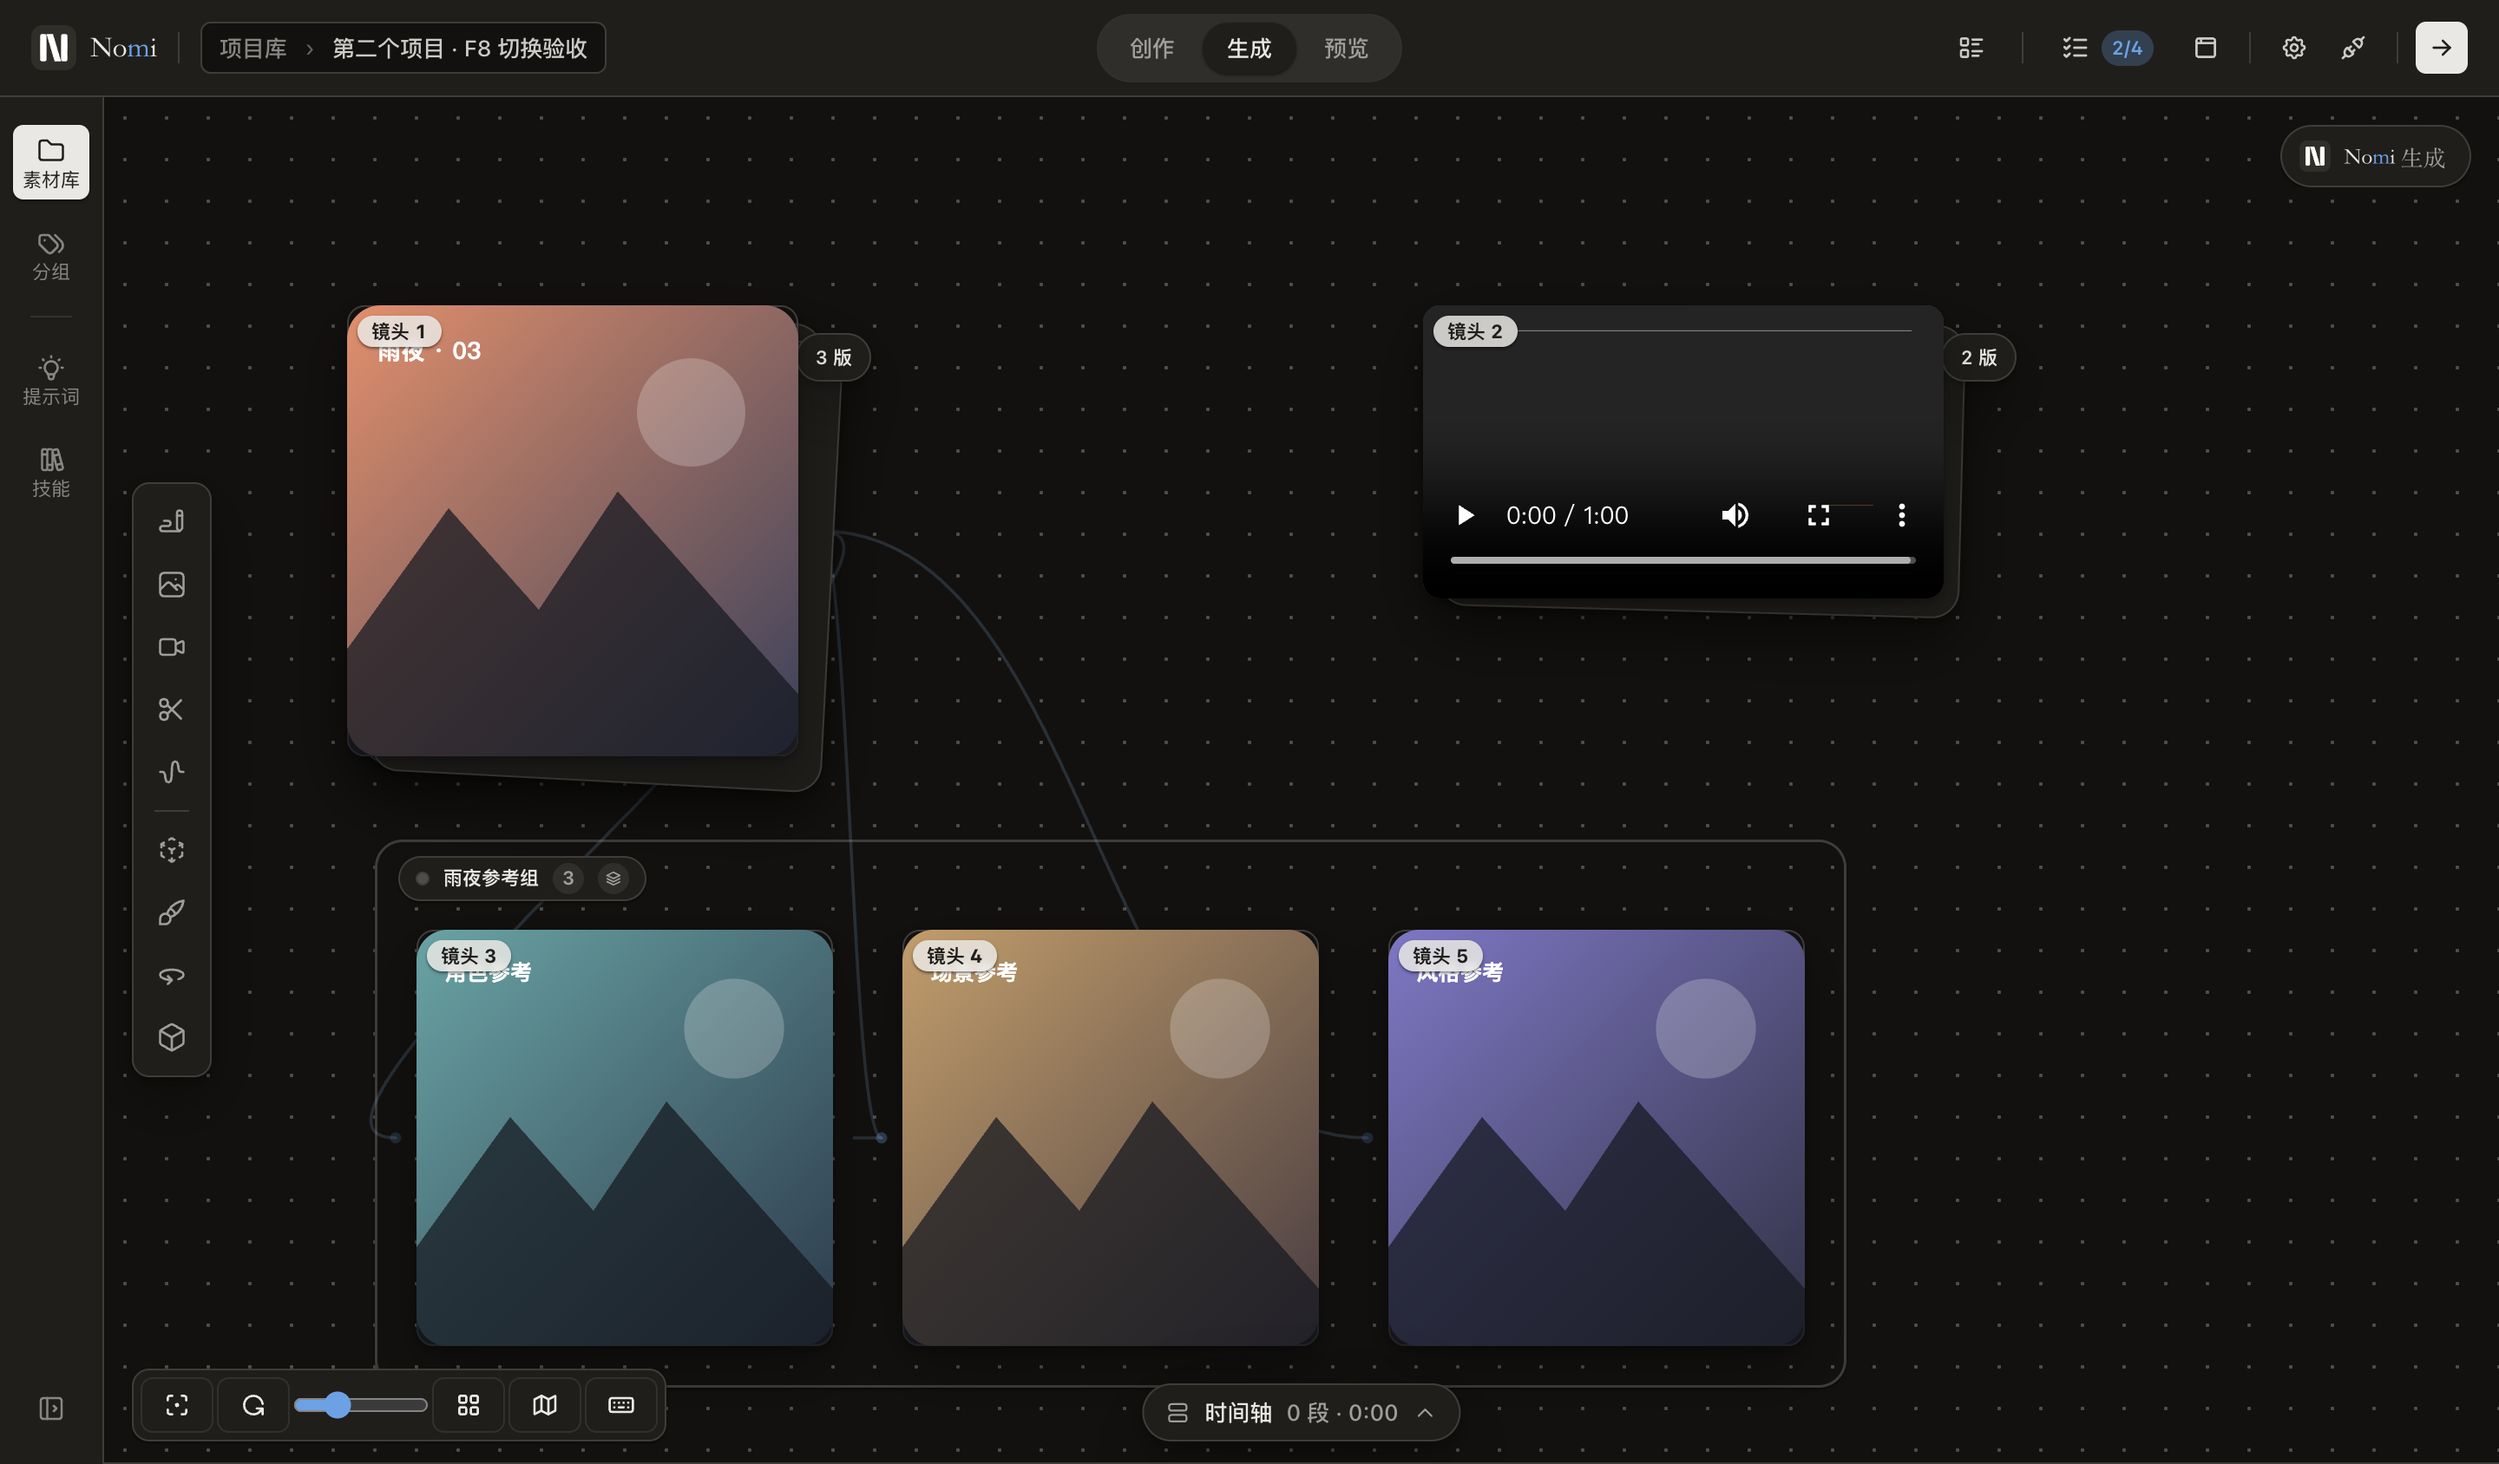
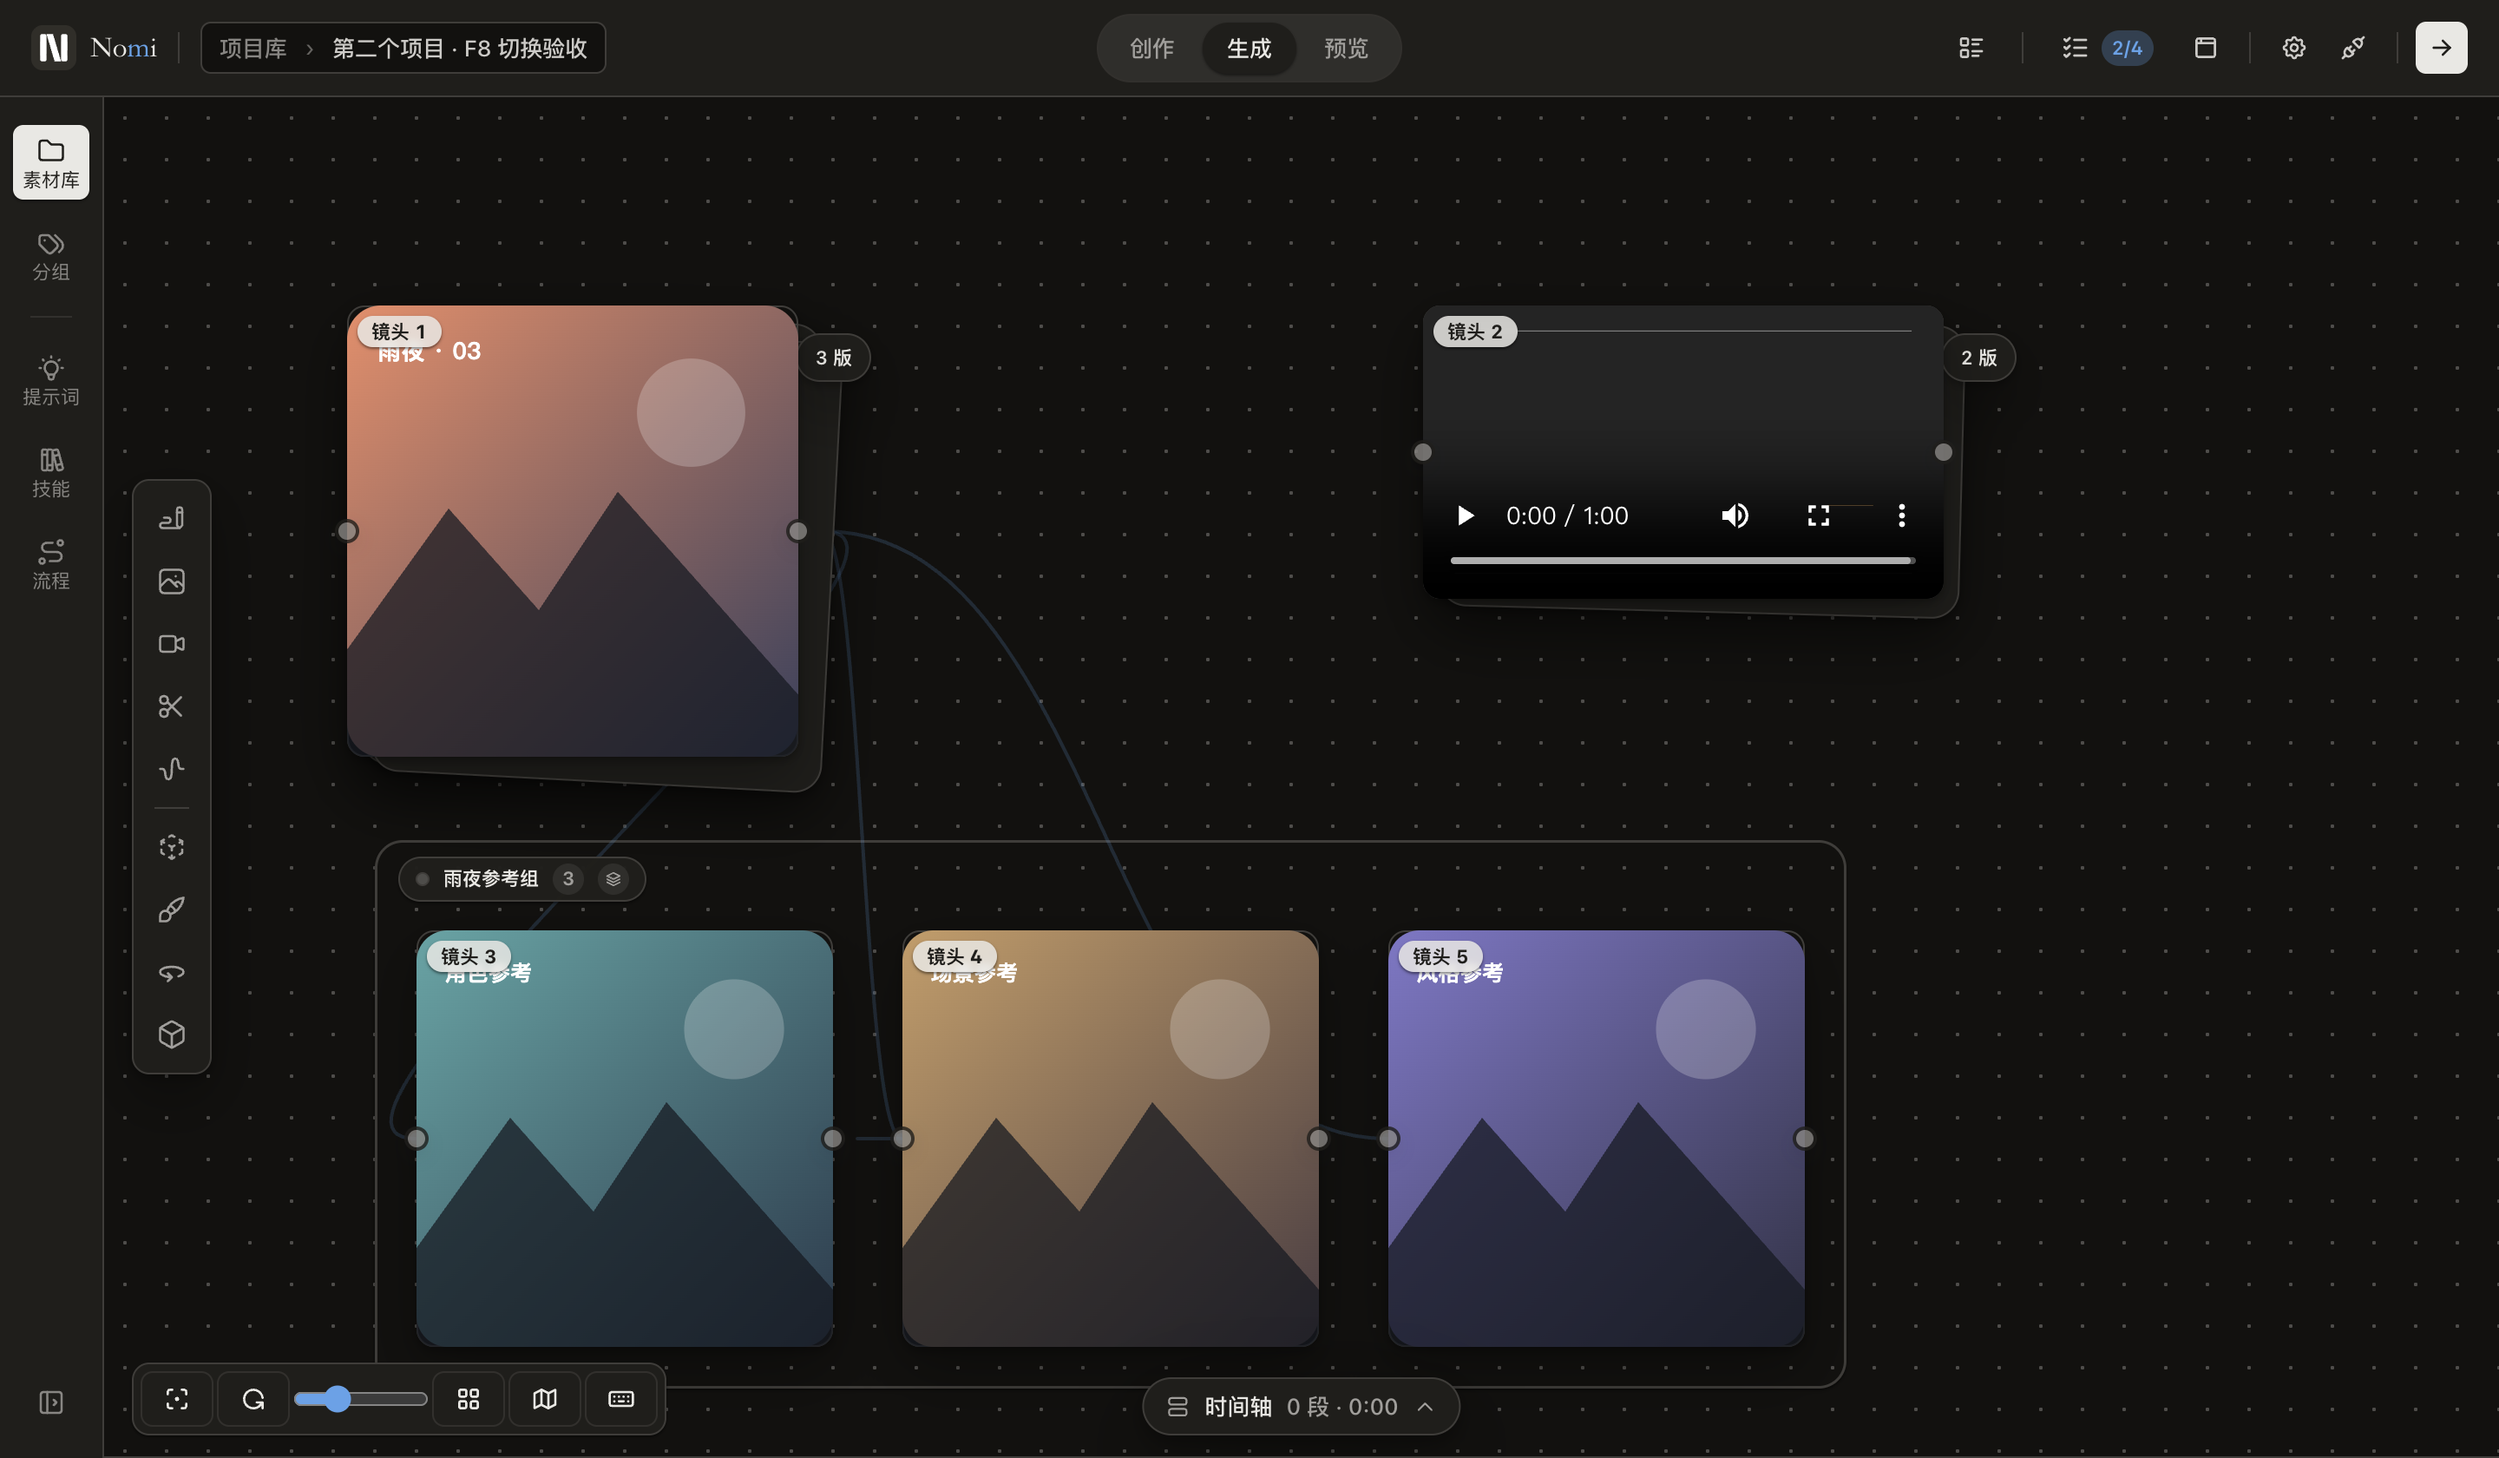
fix(workbench): restore left-rail auto-collapse on project switch
The M1 cutover rewrite of hydrateProject dropped origin/main's
setSidebarCollapsed(true) reset at the project-open boundary. The new
flow flips view to 'library' mid-hydration (to freeze the canvas during
the Host handshake), which unmounts and remounts ProjectExplorerSidebar
on every switch. Its in-component observeProjectSidebarTransition effect
therefore always initializes lastProjectIdRef to the incoming project and
can never see a prev->next change, so it stops firing — and sidebarCollapsed
retains whatever the previous project left it at (expanded). Switching
projects no longer collapsed the rail.

Restore the imperative reset in hydrateProject, keyed on the real
prev->next project id change (read before activeProjectIdRef is
overwritten). This is the sole home for the behavior under the cutover
flow; the in-component effect remains a guard for in-place prop updates.

Verified: tests/ux/canvas-card-stack.walk.mjs "切换项目后左侧栏自动收起"
red -> green (37/37 checks), screenshot 06 shows the collapsed rail.

diff --git a/src/workbench/NomiStudioApp.tsx b/src/workbench/NomiStudioApp.tsx
@@ -428,6 +428,17 @@ export default function NomiStudioApp(): JSX.Element {
           return false
         }
         surfaceEpoch.assertCurrent()
+        // Reset at the project-open boundary so a remounted sidebar cannot inherit
+        // the previous project's expanded state. The cutover flow flips view to
+        // 'library' mid-hydration (line ~405), which unmounts/remounts the sidebar;
+        // its in-component transition effect therefore always looks like a first
+        // mount and can no longer detect the switch on its own. This imperative
+        // reset — keyed on the real prev→next project change — is the sole home for
+        // the "switching projects collapses the left rail" behavior.
+        const prevProjectId = activeProjectIdRef.current ?? null
+        if (prevProjectId !== hydrated.id) {
+          useWorkbenchStore.getState().setSidebarCollapsed(true)
+        }
         activeProjectIdRef.current = hydrated.id
         // 同步喂全局（不等 effect 滞后一拍）：切项目瞬间拖图上传时 resolveProjectId 取的就是新项目，
         // 不再误写进旧项目目录 / 编错 projectId 致渲染 404（C2 修，对齐 activeProjectIdRef 同步口径）。
